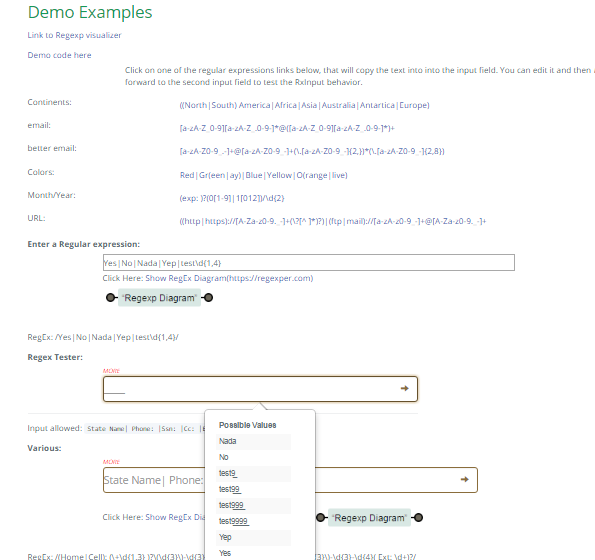
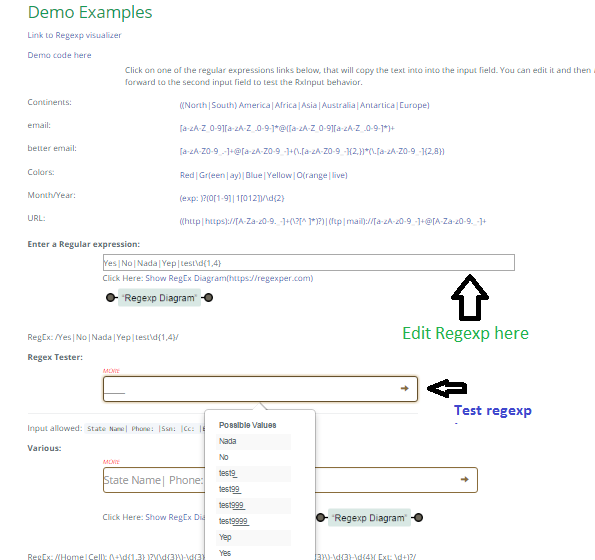
Added some documentation

Changed region(s): [[0.6655, 0.4857, 0.9076, 0.6071], [0.7261, 0.6679, 0.9076, 0.7589]]

diff --git a/README.md b/README.md
@@ -105,17 +105,15 @@ point youy browser at http://localhost:3000
 
 How to use the component:
 
+Use it where you might have used ```<input```  element, take all the properties of a regular input element
 
-**RxInput***
+**RxInput** specific properties:
 
-properties:
-
-- mask - regular expression
-- value - value to set
+- mask - **regular expression**
+- value - _value to set_
 - selection - selection
-- popover - Yes| No whether to show hints or nor
+- popover - _Yes| No_ whether to show hints or nor
 - onChange - function to execute when a chnage happens
-- placeholder - text placeholder
 
 ```
 const App = React.createClass({
